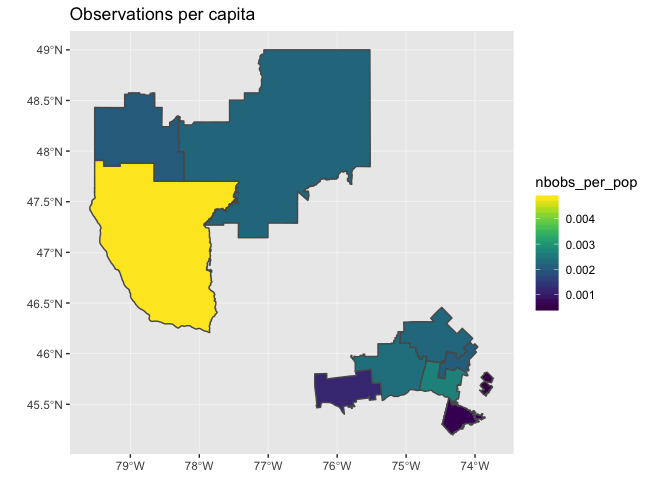
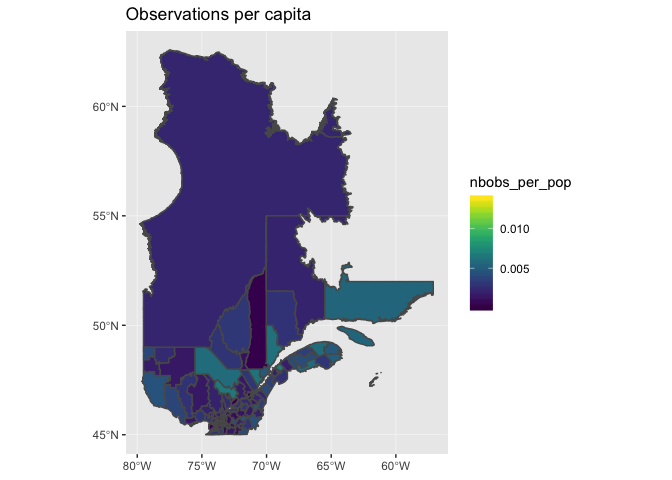
Maps with full (toy) data

diff --git a/maps.md b/maps.md
@@ -43,10 +43,10 @@ can_short <- can[1:10, ]
 print(Sys.time())
 ```
 
-    ## [1] "2019-05-04 10:52:04 EDT"
+    ## [1] "2019-05-04 11:01:34 EDT"
 
 ``` r
-obspercap_plot <- ggplot(data = can_short) +
+obspercap_plot <- ggplot(data = can) +
   geom_sf(aes(fill = nbobs_per_pop)) +
   scale_fill_viridis() +
   ggtitle('Observations per capita')
@@ -60,10 +60,10 @@ print(obspercap_plot)
 print(Sys.time())
 ```
 
-    ## [1] "2019-05-04 10:52:05 EDT"
+    ## [1] "2019-05-04 11:02:55 EDT"
 
 ``` r
-indpercap_plot <- ggplot(data = can_short) +
+indpercap_plot <- ggplot(data = can) +
   geom_sf(aes(fill = nbind_per_pop)) +
   scale_fill_viridis() +
   ggtitle('Observers per capita')
@@ -77,10 +77,10 @@ print(indpercap_plot)
 print(Sys.time())
 ```
 
-    ## [1] "2019-05-04 10:52:07 EDT"
+    ## [1] "2019-05-04 11:04:11 EDT"
 
 ``` r
-obsperind_plot <-  ggplot(data = can_short) +
+obsperind_plot <-  ggplot(data = can) +
   geom_sf(aes(fill = nbobs_per_ind)) +
   scale_fill_viridis() +
   ggtitle('Observations per observer')
@@ -94,4 +94,4 @@ print(obsperind_plot)
 print(Sys.time())
 ```
 
-    ## [1] "2019-05-04 10:52:08 EDT"
+    ## [1] "2019-05-04 11:05:26 EDT"
